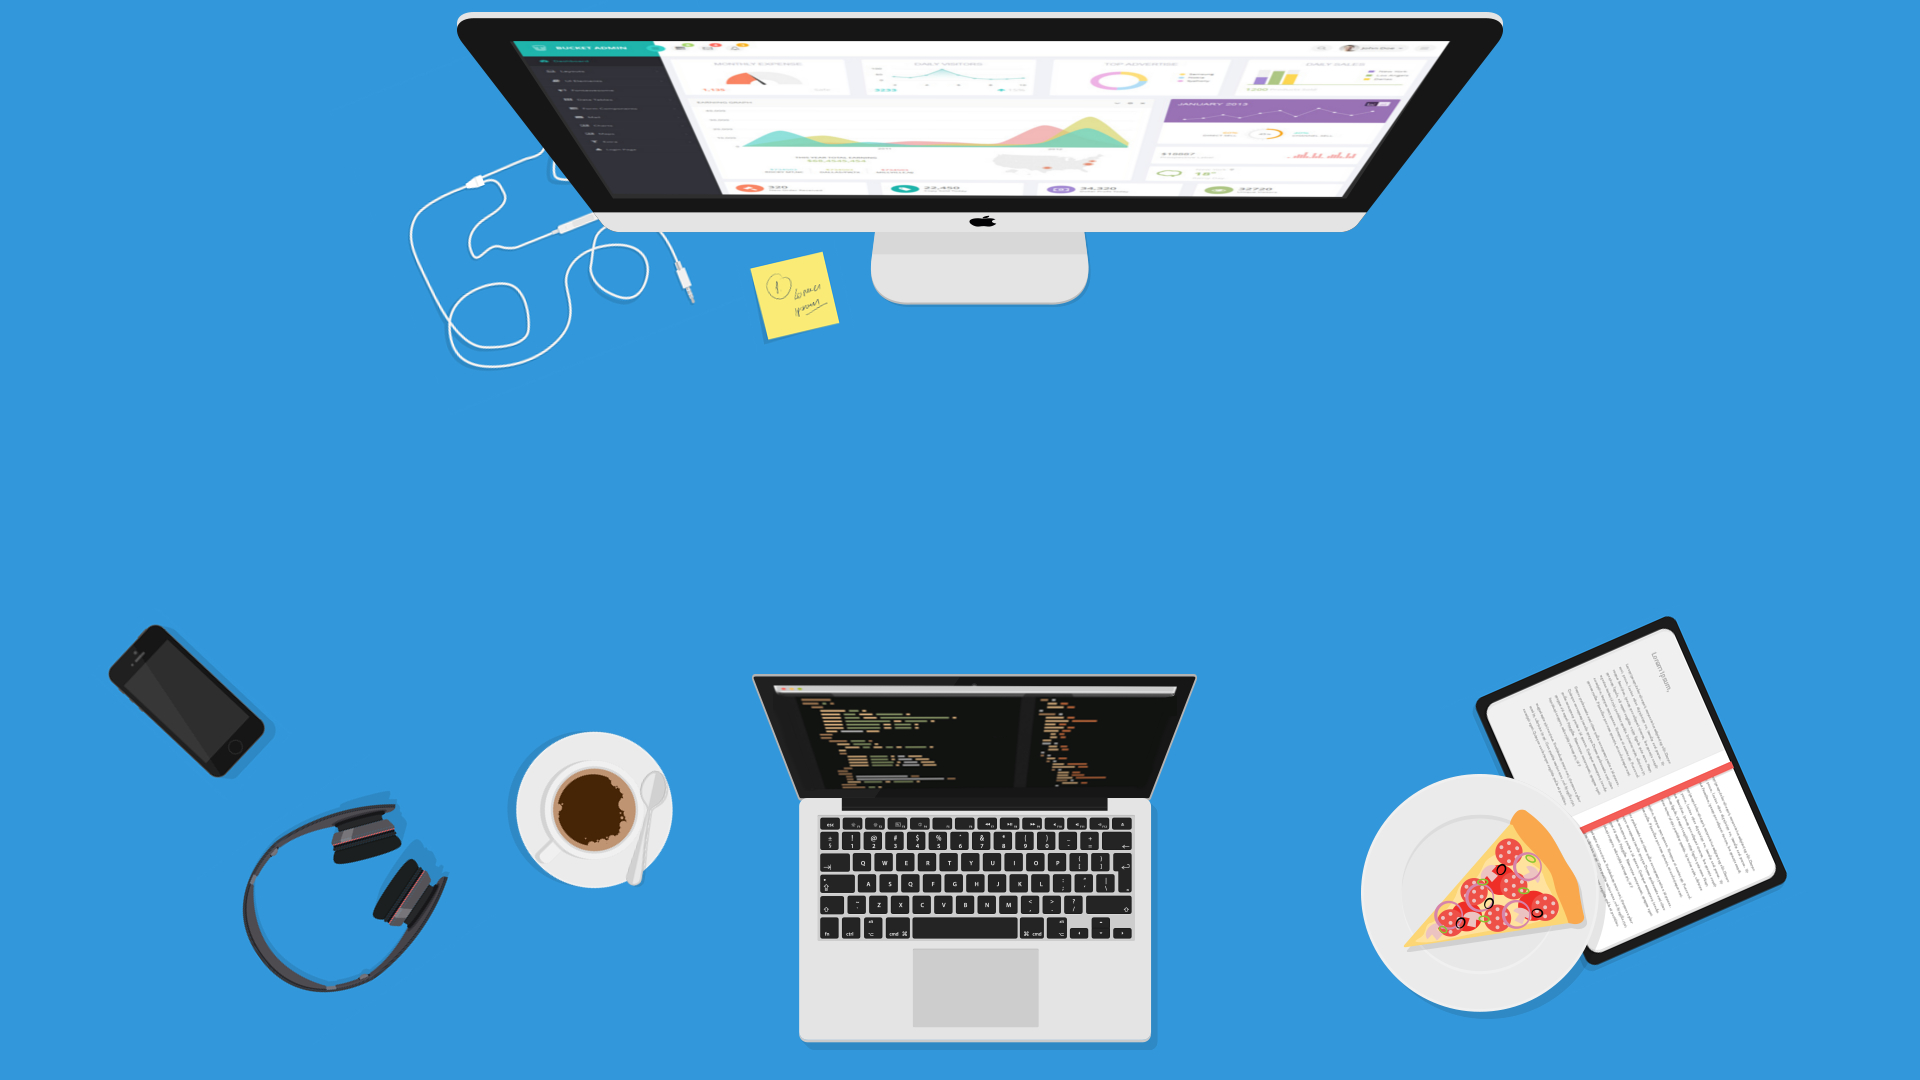
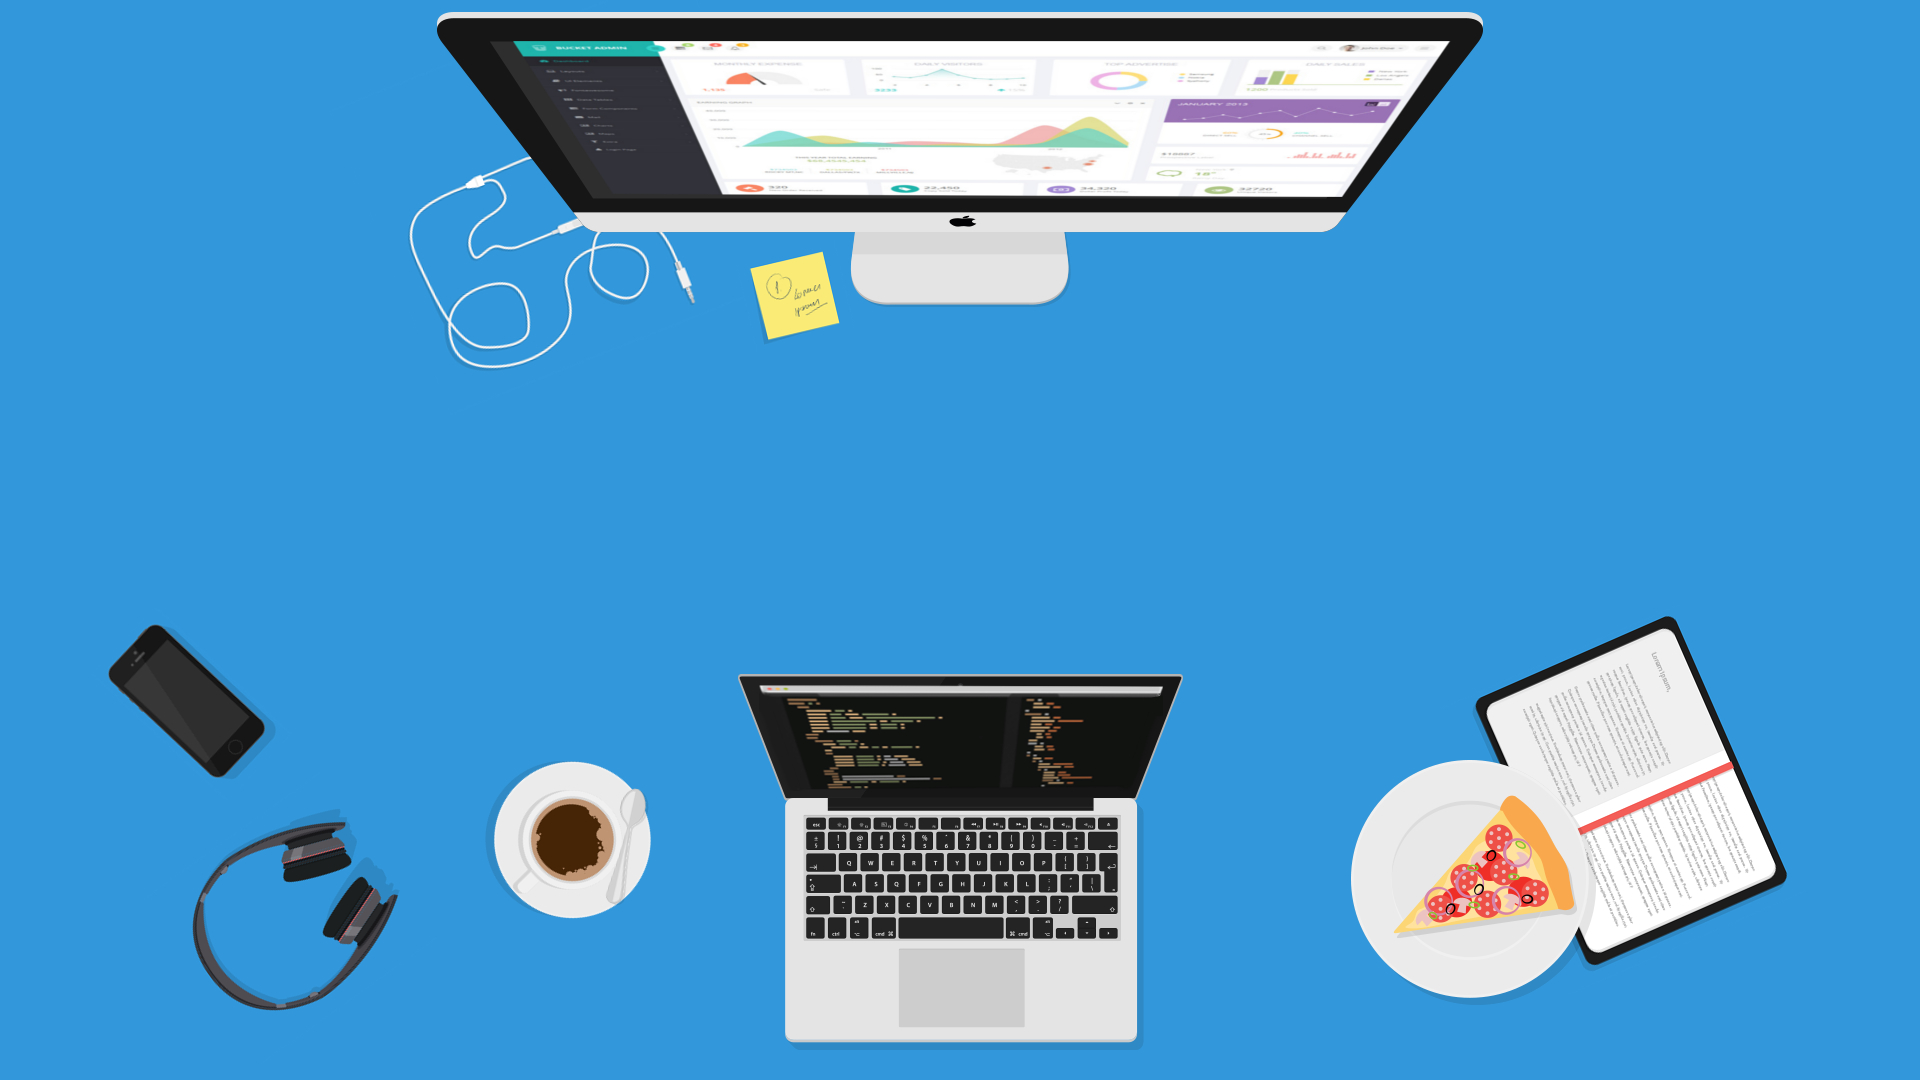
FIXED selectItem bug on mobile and centralized bg

diff --git a/src/js/main.js b/src/js/main.js
@@ -10,36 +10,75 @@ function AppViewModel () {
 	$(".nav-mobile").hide();
 	var showNav = false;
 
-	self.selectItem = function (item) {
-		self.selectedItem(item);
-		location.href = "#" + item.id;
-		setTimeout(self.toggleNav, 400);
+	var waypoints = {
+		wpHome: new Waypoint({
+			element: document.getElementById('home'),
+			handler: function () {
+				self.selectedItem({});
+			},
+			offset: '-50%',
+		}),
+		wpSticky: new Waypoint({
+			element: document.getElementById('aboutme'),
+			handler: function () {
+				if(self.isSticky()) {
+					self.isSticky(false);
+				} else {
+					self.isSticky(true);
+				}
+			},
+			offset: -1,
+		}),
 	};
 
 	self.goHome = function () {
 		location.href = "#home";
-		//
+		if(showNav) {
+			setTimeout(self.toggleNav, 400);
+		}
 	};
 
-	var wpHome = new Waypoint({
-		element: document.getElementById('home'),
-		handler: function () {
-			self.selectedItem({});
-		},
-		offset: '-50%',
-	});
+	self.selectItemAtMobile = function (item) {
+		self.selectItem(item);
+		setTimeout(self.toggleNav, 400);
+	};
 
-	var wpSticky = new Waypoint({
-		element: document.getElementById('aboutme'),
-		handler: function () {
-			if(self.isSticky()) {
-				self.isSticky(false);
-			} else {
-				self.isSticky(true);
+	self.selectItem = function (item) {
+		self.selectedItem(item);
+		location.href = "#" + item.id;
+	};
+
+	self.setSelectedItem = function(id) {
+		self.sections().forEach(function (section) {
+			if (section.id === id) {
+				self.selectedItem(section);
 			}
-		},
-		offset: -1,
-	});
+		});
+	};
+	
+	self.toggleNav = function () {
+		self.iconate();
+		$(".nav-mobile").slideToggle(300, "swing", function() {
+			showNav = !showNav;
+		});
+	}
+
+	var iconElement = document.getElementById('iconate');
+	self.iconate = function () {
+		var options = {
+			from: '',
+			to: '',
+			animation: 'verticalFlip',
+		}
+		if(showNav) {
+			options.from = 'fa-times';
+			options.to = 'fa-bars';
+		} else {
+			options.to = 'fa-times';
+			options.from = 'fa-bars';
+		}
+		iconate(iconElement, options);
+	}
 
 	var secItem  = function (id, title, header, icon, content) {
 		var obj 				= {};
@@ -67,37 +106,6 @@ function AppViewModel () {
 		});
 		return obj;
 	};
-
-	self.setSelectedItem = function (id) {
-		self.sections().forEach(function (section) {
-			if (section.id === id) {
-				self.selectedItem(section);
-			}
-		});
-	};
-	
-	self.toggleNav = function () {
-		self.iconate();
-		$(".nav-mobile").slideToggle(300, "swing", function() {
-			showNav = !showNav;
-		});
-	}
-	var iconElement = document.getElementById('iconate');
-	self.iconate = function () {
-		var options = {
-			from: '',
-			to: '',
-			animation: 'tada',
-		}
-		if(showNav) {
-			options.from = 'fa-times';
-			options.to = 'fa-bars';
-		} else {
-			options.to = 'fa-times';
-			options.from = 'fa-bars';
-		}
-		iconate(iconElement, options);
-	}
 
 	self.init = function () {
 		self.sections([

diff --git a/index.html b/index.html
@@ -77,7 +77,7 @@
 			</div>
 		</header>
 		<nav class="nav-mobile" data-bind="foreach: $root.sections, css: {sticky: isSticky}">
-			<div class="menu-item" data-bind="click: $root.selectItem, css: {active: isSelected}">
+			<div class="menu-item" data-bind="click: $root.selectItemAtMobile, css: {active: isSelected}">
 				<span data-bind='text: title'></span>
 			</div>
 		</nav>
